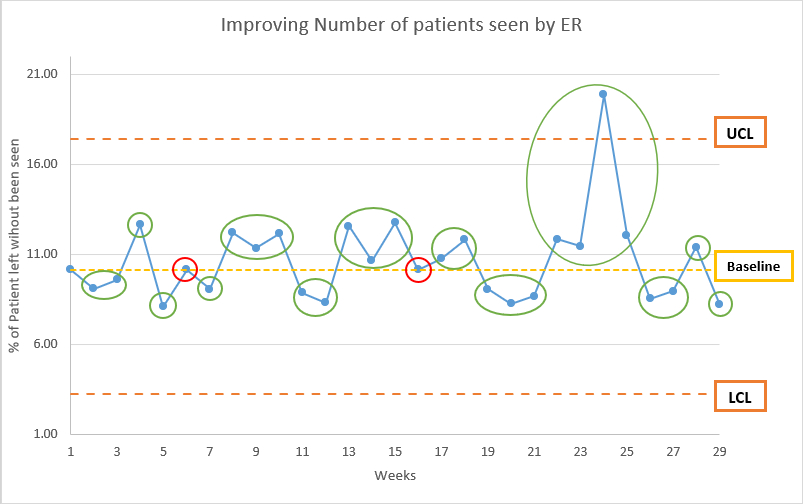
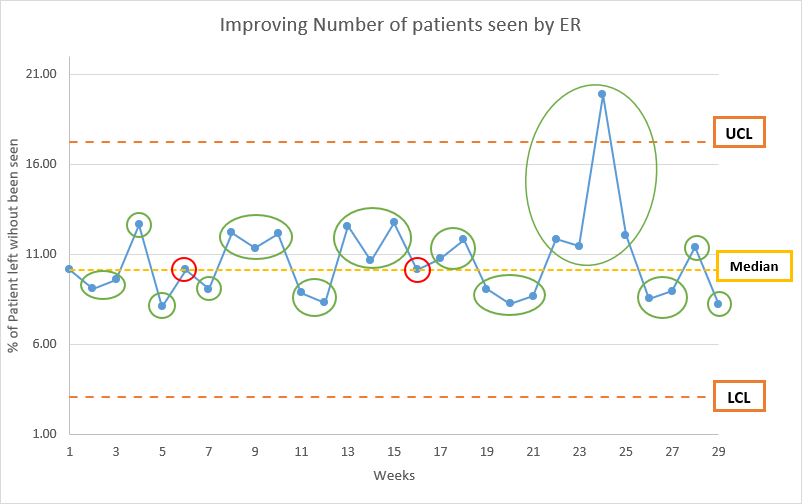
more edits to xlsx, images + added new part to L2

diff --git a/_posts/2020-04-08-L2 How to Learn from Run Charts and Control Charts.md b/_posts/2020-04-08-L2 How to Learn from Run Charts and Control Charts.md
@@ -11,7 +11,7 @@ layout: post
 to get better results and understand better from our charts, we need to separate from common and special causes of variance.
 
 |Common Cause                   |Special Cause                |
-|-------------------------------|-----------------------------|
+|:--:|:--:|
 |Inherent to the system or process|not inherent to the process|
 |from regular causes            |from irregular causes        |
 |affects on all the outcomes of a process|affects on some but not all|
@@ -22,13 +22,39 @@ This is how common and special causes looks like in a chart:
 
 
 ![](/IHI-QI104/img/L2-1.jpg)  
-
-excel file, with the data and chart, can be found [here](/IHI-QI104/xlsx/L2-1.xlsx).  
+###### excel file, with the data and chart, can be found [here](/IHI-QI104/xlsx/L2-1.xlsx).  
 
 ## Counting Runs on a Run Chart
-A run is one or more consecutive points that all lie on the same side of the median. To count runs, we draw circle around each run and count the circles. This example should explain how to cound runs:
+A run is one or more consecutive points that all lie on the same side of the median. To count runs, we draw circle around each run and count the circles. This example should explain how to count runs:
 In this example, we have 13 runs. Each green circle is one run. If point is ont he baseline, it does not count as part of the run.  
 
-![](/IHI-QI104/img/L2-2.jpg)
+![](/IHI-QI104/img/L2-2.jpg)  
+###### excel file, with the data and chart, can be found [here](/IHI-QI104/xlsx/L2-2.xlsx).  
 
-excel file, with the data and chart, can be found [here](/IHI-QI104/xlsx/L2-2.xlsx).  
+## Four Rules for Interpreting Run Charts
+Drawing circles around runs help us finding evidences of non-random changes, singals of improving or disimprovement. After drwaing the circles, we look for the following:
+
+ - **Shift**: Six or more consecutive points above or below the median.
+ - **Trend**: Five or more consecutive increasing or decreasing points.
+ - **Clusters** (Too Few or Too Many Runs): We can say it is the number of runs, from that number we can tell if we have too many or too few runs.
+ - **Astronomical Point**: Upnormal change in data.  
+
+here are example of each one:
+![](/IHI-QI104/img/L2-3.jpg)  
+###### excel file, with the data and chart, can be found [here](/IHI-QI104/xlsx/L2-3.xlsx).
+>  **Note:** For clusters, to know how many is few and how many is too many, we do the following:
+ > - Count total data points and substract points that fall on the median, the results is the **total number of data points**.
+ > - Check the following table for the lower number of runs and the upper number of runs that the chart should have based on the **total number of data points**:
+
+
+|data points|Lower number of runs|Upper number of runs|
+|:--:|:--:|:--:|
+|10|3|9|
+|11|3|10|
+|12|3|11|
+|13|4|11|
+|14|4|12|
+|15|5|12|
+##### This table are for 10 to 15 data points, [click here](/IHI-QI104/img/L2-3.jpg)  if you have more than 20 data points to see how many lower and upper runs you should have.
+
+If any of the previous explained rules occur, then we can say that there is a non-random patterns in the data. That means what we are measuring is changing. Adding annotations and explaing what it is happening will help non experienced people understand what is happening in the chart. 

diff --git a/_posts/2020-04-07-L1 How to Display Data on a Run Chart.md b/_posts/2020-04-07-L1 How to Display Data on a Run Chart.md
@@ -43,20 +43,18 @@ In our previous example, lets say we have data of one year, the basic elements o
 an example of the result chart is:  
 
 ![](/IHI-QI104/img/L1-1.jpg)  
-
-excel file, with the data and chart, can be found [here](/IHI-QI104/xlsx/L1-1.xlsx).
+###### excel file, with the data and chart, can be found [here](/IHI-QI104/xlsx/L1-1.xlsx).
 
 
 ## Baselines, Goal Lines, and Other Annotations
-**Annotations** are comments we add to the chart. Add comments to show changes effected the run chart.
-**Base Line**  is a line that shows the performance before the start of our test of improvements. Baseline is the median of your measurements from the time prior to any specific tests of change or improvement. We need at least five data points to create baseline median.  
-**Goal Line** is a line to show our goal.
+ - **Annotations** are comments we add to the chart. Add comments to show changes effected the run chart.
+ - **Base Line**  is a line that shows the performance before the start of our test of improvements. Baseline is the median of your measurements from the time prior to any specific tests of change or improvement. We need at least five data points to create baseline median.  
+ - **Goal Line** is a line to show our goal.
 
 This is how the previous chart looks like with annotations, baseline and goal line.  
 
 ![](/IHI-QI104/img/L1-2.jpg)  
-
-excel file, with the data and chart, can be found [here](/IHI-QI104/xlsx/L1-2.xlsx).
+###### excel file, with the data and chart, can be found [here](/IHI-QI104/xlsx/L1-2.xlsx).
 
 ## Computer Programs for Run Charts
 [Click here](http://www.youtube.com/watch?v=lUp_TwMdj8k) to see a quick video on how to create run chart in excel.  
